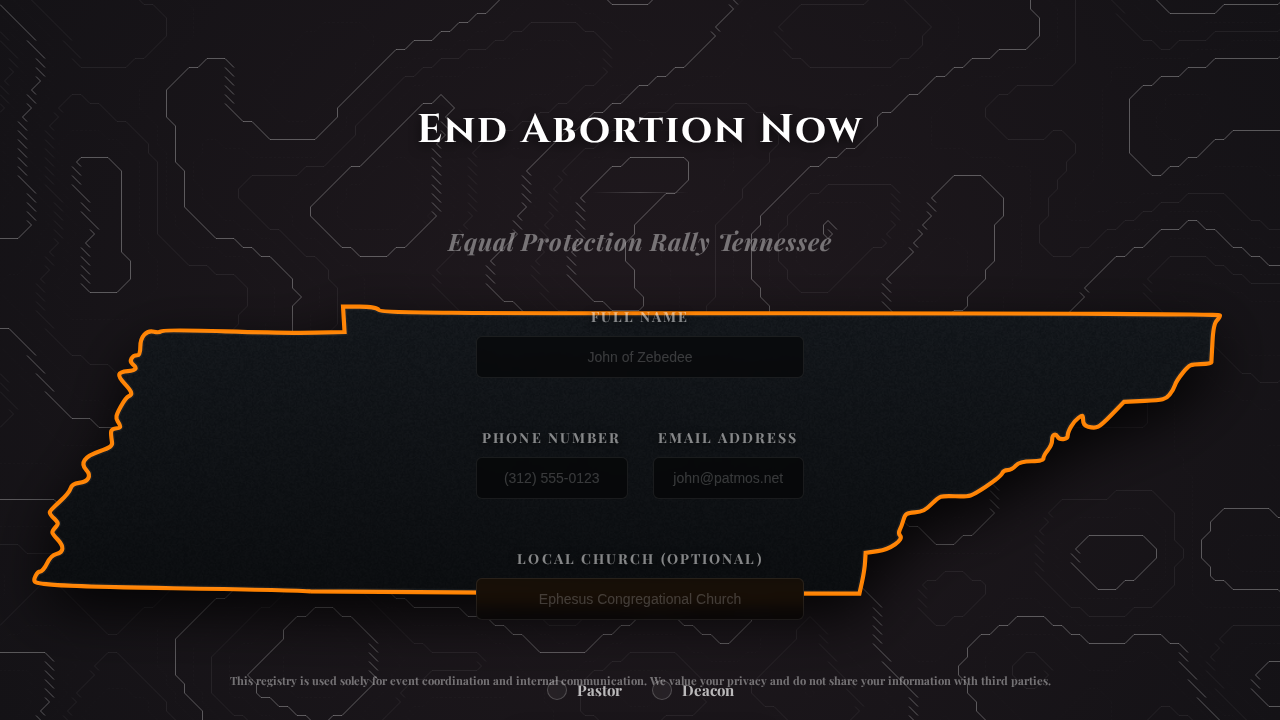
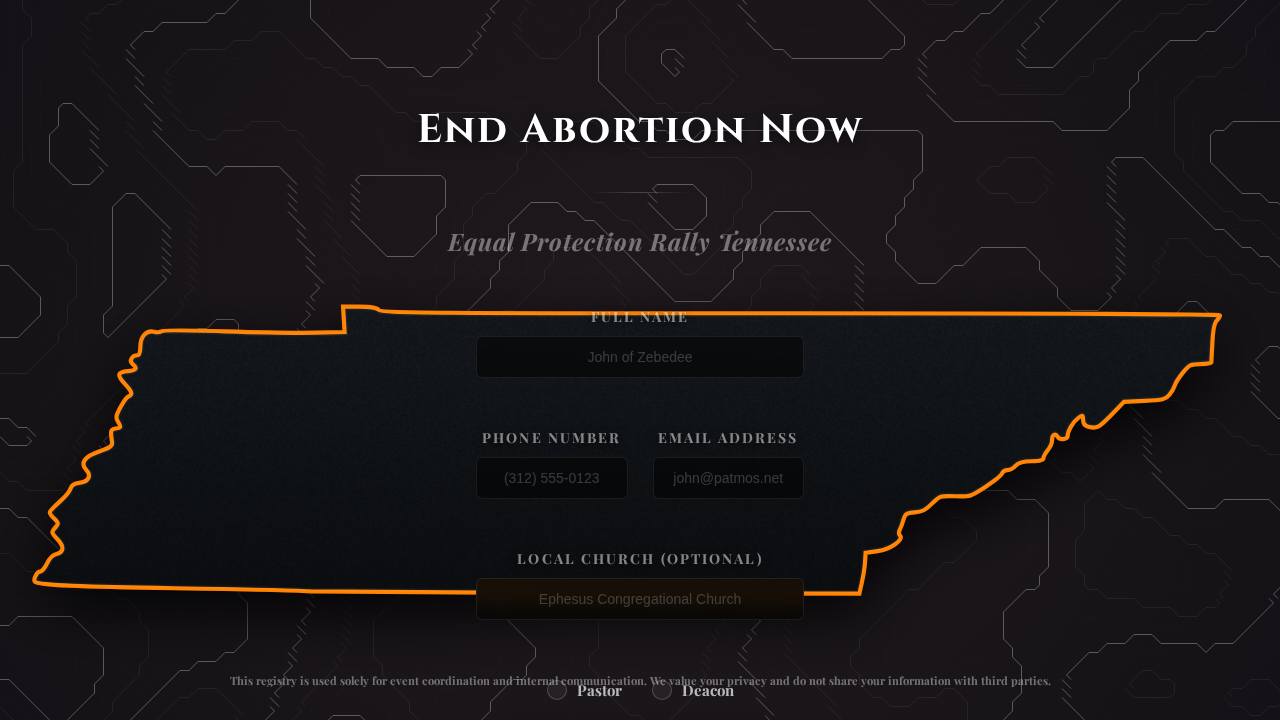
Add Tennessee SVG map to mobile layout
- Add `tennessee.svg` as `<img>` element at bottom of the form on mobile viewports.
- Style `tennessee.svg` path with Vols Orange (`#FF8200`) and set width to 85% of mobile viewport.
- Position using `position: fixed` and `pointer-events: none` to avoid interfering with interactions.
- Hide `tennessee.svg` from desktop layouts, as the map is already rendered via canvas.

diff --git a/index.html b/index.html
@@ -415,6 +415,29 @@
         }
       }
 
+      .mobile-map-container {
+        display: none; /* Hidden by default on desktop */
+      }
+
+      @media (max-width: 500px) {
+        .mobile-map-container {
+          display: flex;
+          justify-content: center;
+          align-items: center;
+          width: 100%;
+          position: fixed;
+          bottom: 10vh; /* Positioned above the privacy footer */
+          z-index: 5;
+          pointer-events: none;
+        }
+
+        .mobile-map-svg {
+          width: 85vw; /* 85% of viewport width as requested */
+          height: auto;
+          filter: drop-shadow(0 20px 60px rgba(0,0,0,0.9));
+        }
+      }
+
       @keyframes fadeIn {
         from { opacity: 0; transform: translateY(5px); }
         to { opacity: 1; transform: translateY(0); }
@@ -544,6 +567,10 @@
           deeply appreciated.
         </p>
       </div>
+    </div>
+
+    <div class="mobile-map-container">
+      <img src="tennessee.svg" alt="Tennessee Outline" class="mobile-map-svg" />
     </div>
 
     <div class="privacy-footer">
